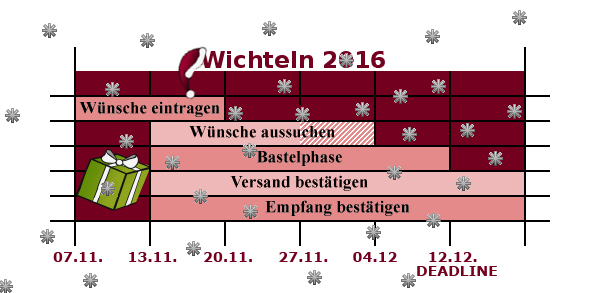
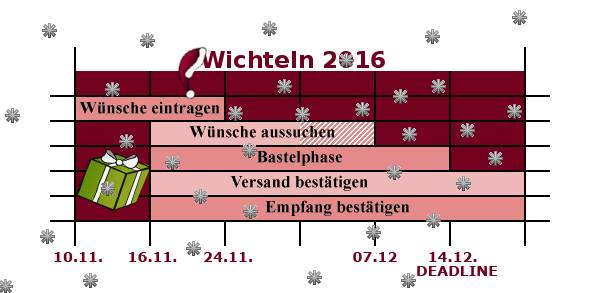
fixes etc

diff --git a/was-ist-denn-hier-los.php b/was-ist-denn-hier-los.php
@@ -57,23 +57,23 @@ switch($Grund) {
   break;
 
   case 'zeit_eintragen':
-    echo "<p ><b>Hallo ".$user->data['username']."!</b><br><br>Dieser Dienst steht nur vom 07.11.2016 bis zum 20.11.2016 zur Verf&uuml;gung. Und da heute der ".date("d.m.Y")." ist, ist dieser Dienst leider nicht verf&uuml;gbar.</p>";
+    echo "<p ><b>Hallo ".$user->data['username']."!</b><br><br>Dieser Dienst steht nur vom 10.11.2016 bis zum 23.11.2016 zur Verf&uuml;gung. Und da heute der ".date("d.m.Y")." ist, ist dieser Dienst leider nicht verf&uuml;gbar.</p>";
   break;
 
   case 'zeit_anfragen':
-    echo "<p><b>Hallo ".$user->data['username']."!</b><br><br>Dieser Dienst steht leider nur vom ".$anfragen_start." bis zum ".$anfragen_ende." zur Verf&uuml;gung. Und da heute der ".date("d.m.Y")." ist, ist dieser Dienst leider nicht verf&uuml;gbar.</p>";
+    echo "<p><b>Hallo ".$user->data['username']."!</b><br><br>Dieser Dienst steht leider nur vom 16.11.2016  bis zum 7.12.2016 zur Verf&uuml;gung. Und da heute der ".date("d.m.Y")." ist, ist dieser Dienst leider nicht verf&uuml;gbar.</p>";
   break;
 
   case 'zeit_senden':
-    echo "<p><b>Hallo ".$user->data['username']."!</b><br><br>Dieser Dienst steht ab dem 13.11.2016 zur Verf&uuml;gung. Und da heute der ".date("d.m.Y")." ist, ist dieser Dienst leider nicht verf&uuml;gbar.</p>";
+    echo "<p><b>Hallo ".$user->data['username']."!</b><br><br>Dieser Dienst steht ab dem 16.11.2016 zur Verf&uuml;gung. Und da heute der ".date("d.m.Y")." ist, ist dieser Dienst leider nicht verf&uuml;gbar.</p>";
   break;
 
   case 'zeit_empfangen':
-    echo "<p><b>Hallo ".$user->data['username']."!</b><br><br>Dieser Dienst steht ab dem 13.11.2016 zur Verf&uuml;gung. Und da heute der ".date("d.m.Y")." ist, ist dieser Dienst leider nicht verf&uuml;gbar.</p>";
+    echo "<p><b>Hallo ".$user->data['username']."!</b><br><br>Dieser Dienst steht ab dem 16.11.2016 zur Verf&uuml;gung. Und da heute der ".date("d.m.Y")." ist, ist dieser Dienst leider nicht verf&uuml;gbar.</p>";
   break;
 
   case 'zeit_buergen':
-    echo "<p ><b>Hallo ".$user->data['username']."!</b><br><br>Dieser Dienst steht nur vom 13.11.2016 bis zum 27.11.2016 zur Verf&uuml;gung. Und da heute der ".date("d.m.Y")." ist, ist dieser Dienst leider nicht verf&uuml;gbar.</p>";
+    echo "<p ><b>Hallo ".$user->data['username']."!</b><br><br>Dieser Dienst steht nur vom 16.11.2016 bis zum 27.11.2016 zur Verf&uuml;gung. Und da heute der ".date("d.m.Y")." ist, ist dieser Dienst leider nicht verf&uuml;gbar.</p>";
   break;
   case 'geschenksperre':
     echo "<p><b>Hallo ".$user->data['username']."!</b><br><br>Du hast bereits ein Geschenk ausgew&auml;hlt. Bevor du ein weiteres aussuchen kannst, musst du den Versand des anderen best&auml;tigt haben.</p><br>";

diff --git a/und-so-gehts.php b/und-so-gehts.php
@@ -35,8 +35,8 @@ Wenn ihr dann ein Geschenk verschickt oder erhalten habt, dann best&auml;tigt di
 
 <a name="zeitplan"><h2>Zeitplan</h2></a>
 <div align="center"><img src="zeitplan2015.jpg" border="0" alt="Zeitplan"></div><br>
-Beginn des Wichteln ist am Montag, den 07.11.2016. Ab diesem Tag k&ouml;nnt ihr eure W&uuml;nsche im Skript eintragen. Es werden allerdings noch keine W&uuml;nsche vergeben, wir sammeln erst einmal. Wunschanfragen k&ouml;nnt ihr ab Sonntag, den 13.11.2016 stellen. Ab diesem Zeitpunkt werden W&uuml;nsche vergeben, ihr k&ouml;nnt die B&uuml;rge-Funktion nutzen und die Best&auml;tigungen f&uuml;r Versand und Empfang sind aktiv. Jetzt kann die Bastelphase starten! Ihr k&ouml;nnt auch eure W&uuml;nsche noch eine Woche lang eintragen, bis zum 20.11.2016. Dann ist Annahmeschlu&szlig;. Einen Wunsch heraussuchen k&ouml;nnt ihr noch bis zum 27.11.2016 (je nach Auslastung auch l&auml;nger). Dann solltet ihr langsam in die Puschen kommen, nach insgesamt 4 Wochen Bastelzeit ist Deadline zum Verschicken am Montag, den <b>12.12.2016</b>. Das ist defintiv! Danach k&ouml;nnt ihr nur noch den Versand und Empfang eines Paketes best&auml;tigen.<br>
-Alle angegebenen Tage sind inklusive, wenn da also steht: "W&uuml;nsche eintragen bis 20.11.2016", dann k&ouml;nnt ihr den letzten Wunsch am 20.11.2016 um 23:59 Uhr eintragen.<br>
+Beginn des Wichteln ist am Mittwoch, den 09.11.2016. Ab diesem Tag k&ouml;nnt ihr eure W&uuml;nsche im Skript eintragen. Es werden allerdings noch keine W&uuml;nsche vergeben, wir sammeln erst einmal. Wunschanfragen k&ouml;nnt ihr ab Mittwoch, den 16.11.2016 stellen. Ab diesem Zeitpunkt werden W&uuml;nsche vergeben, ihr k&ouml;nnt die B&uuml;rge-Funktion nutzen und die Best&auml;tigungen f&uuml;r Versand und Empfang sind aktiv. Jetzt kann die Bastelphase starten! Ihr k&ouml;nnt auch eure W&uuml;nsche noch eine Woche lang eintragen, bis zum 24.11.2016. Dann ist Annahmeschlu&szlig;. Einen Wunsch heraussuchen k&ouml;nnt ihr noch bis zum 7.12.2016 . Dann solltet ihr langsam in die Puschen kommen, nach insgesamt 4 Wochen Bastelzeit ist Deadline zum Verschicken am Montag, den <b>14.12.2016</b>. Das ist defintiv! Danach k&ouml;nnt ihr nur noch den Versand und Empfang eines Paketes best&auml;tigen.<br>
+Alle angegebenen Tage sind inklusive, wenn da also steht: "W&uuml;nsche eintragen bis 23.11.2016", dann k&ouml;nnt ihr den letzten Wunsch am 23.11.2016 um 23:59 Uhr eintragen.<br>
 <br>
 
 <div align="center"><img src="./img/nosternmini.gif" width="45" height="45" border="0" alt="*"></div>

diff --git a/lanq.php b/lanq.php
@@ -10,7 +10,7 @@ $eintragen_info = "<p>
 
 $eintragen_check = "<p>Bitte überprüfe deine Angaben nochmal genau bevor sie eingetragen werden. Du kannst sie später nicht mehr ändern.</p>";
 
-$eintragen_mail = "Hallo _USERNAME_! \n\nDeine Wuensche wurden in unsere Wunschdatenbank eingetragen. Ab dem 13.11.2016 kannst Du Dir die Wünsche der anderen anzeigen lassen und mit dem Wichteln loslegen. \n\nViel Spass wünscht dein Weihnachtswichtel";
+$eintragen_mail = "Hallo _USERNAME_! \n\nDeine Wuensche wurden in unsere Wunschdatenbank eingetragen. Ab dem 16.11.2016 kannst Du Dir die Wünsche der anderen anzeigen lassen und mit dem Wichteln loslegen. \n\nViel Spass wünscht dein Weihnachtswichtel";
 
 $eintragen_ende = "<p>Deine Daten wurden eingetragen. Vielen Dank für deine Teilnahme und viel Spaß beim Wichteln!</p>";
 
@@ -41,7 +41,7 @@ $anfragen_ende = "<p>Der Wunsch wurde für dich reserviert. Hier erhältst du al
 
 $anfragen_geschenk_weg = "<p>So wie es aussieht, wurde der Wunsch zwischenzeitlich anders vergeben. Bitte überprüfe deinen E-Mail-Eingang oder suche dir einen anderen Wunsch aus.</p>";
 
-$anfragen_mail = "Hallo _USERNAME_! \n\nDu hast dich verpflichtet, folgenden Wunsch zu erfuellen. Hier erhaeltst du noch mal alle Daten, die du benoetigst. Denk daran, dass du das Geschenk spaetestens am 12.12.2016 verschickt haben musst. \n_WUNSCHINFO_ \n\nViel Spass beim Basteln wuenscht Dein Weihnachtswichtel \n PS: Wenn in dieser Email statt den Informationen zu deinem Wunsch nur leere Felder stehen, dann ist etwas schief gelaufen. Der Wunsch ist dann nicht fuer dich reserviert! Bitte waehle ihn erneut aus und/oder wende dich an den Weihnachtswichtel.";
+$anfragen_mail = "Hallo _USERNAME_! \n\nDu hast dich verpflichtet, folgenden Wunsch zu erfuellen. Hier erhaeltst du noch mal alle Daten, die du benoetigst. Denk daran, dass du das Geschenk spaetestens am 14.12.2016 verschickt haben musst. \n_WUNSCHINFO_ \n\nViel Spass beim Basteln wuenscht Dein Weihnachtswichtel \n PS: Wenn in dieser Email statt den Informationen zu deinem Wunsch nur leere Felder stehen, dann ist etwas schief gelaufen. Der Wunsch ist dann nicht fuer dich reserviert! Bitte waehle ihn erneut aus und/oder wende dich an den Weihnachtswichtel.";
 
 $bekommen_mail = "Hallo _USERNAME_! \n\n_PARTNER_ hat gerade bestaetigt, dass dein Geschenk angekommen ist. Vielen Dank fuer deine Teilnahme am Wichteln! \n\nViele Gruesse vom Weihnachtswichtel";
 

diff --git a/wunsch-bearbeiten.php b/wunsch-bearbeiten.php
@@ -1,10 +1,17 @@
 <?php
 #Beginne Session
 session_start();
-
 $post=$_POST;
+date_default_timezone_set('Europe/Berlin');
+
+$today=date(YmdHi); //$today="201611081200";
+
+//$today="201511081200";
+
+
 include("cfg.php");
-// Ben�tigte Dateien und Variablen von phpBB3
+require_once("static.php");
+// Benoetigte Dateien und Variablen von phpBB3
 define('IN_PHPBB', true);
 $phpbb_root_path = (defined('PHPBB_ROOT_PATH')) ? PHPBB_ROOT_PATH : '../forum/';
 $phpEx = substr(strrchr(__FILE__, '.'), 1);
@@ -15,44 +22,25 @@ $user->session_begin();  // Session auslesen
 $auth->acl($user->data); // Benutzer-Informationen laden
 $user->setup();
 
+
 #Daten aus Datenbank abrufen
 $user_id = $user->data['user_id'];
 $user_posts = $user->data['user_posts'];
 
-#Pr�fe auf Blacklist
-mysql_connect("localhost",$dbuser,$dbpasswd);
-mysql_select_db($dbname);
-$query = mysql_query("SELECT blacklist_id FROM wi_blacklist WHERE user_id = '$user_id'");
-while ($erg =@ mysql_fetch_array($query)) { $blacklist = $erg["blacklist_id"]; }
-mysql_close();
+# sortiere nicht admins aus
+if($user_id != $admin && $user_id != $orgawichtel){
+   header("Location: was-ist-denn-hier-los.php?Grund=admin");
+}
 
-
-$td=getdate();
-if ($td["mday"]<10)
-	$td["mday"]="0".$td["mday"];
-if ($td["mon"]<10)
-	$td["mon"]="0".$td["mon"];
-if ($td["hours"]<10)
-	$td["hours"]="0".$td["hours"];
-if ($td["minutes"]<10)
-	$td["minutes"]="0".$td["minutes"];
-
-$today=$td["year"].$td["mon"].$td["mday"].$td["hours"].$td["minutes"];
-//$today="201511270000";
-//$user_posts=100;
-#�berpr�fe Rechte
-include('static.php');
-if ( !$user->data['is_registered'] ) { header("Location: was-ist-denn-hier-los.php?Grund=nicht_eingeloggt"); }
-elseif ( $user_posts < $user_min_posts ) { header("Location: was-ist-denn-hier-los.php?Grund=zu_wenig_posts"); }
-//elseif ( (($today < $eintragen_start)) || (($today > $eintragen_ende)) ) { header("Location: was-ist-denn-hier-los.php?Grund=zeit_eintragen"); }
-elseif ( ($blacklist != NULL) ) { header("Location: was-ist-denn-hier-los.php?Grund=blacklist"); }
+$un=$user->data['username'];
+if ($un=="Anonymous") $user_id=0;
 
 
 ?>
 
 <html>
 <head>
-<meta name="author" content="systemhexe">
+<meta name="author" content="kaylee">
 <meta name="debug" content="toxic_garden">
 <meta name="organization" content="n&auml;hkromanten">
 <meta charset="UTF-8">

diff --git a/ich-wuensche-mir.php b/ich-wuensche-mir.php
@@ -368,7 +368,7 @@ function eintrag()
         <p>
           Diese werden zu allen deinen Wünschen angezeigt.<br>
           Hier kannst du erwähnen, was deine generellen Stilvorlieben sind, alles, was deinem Wichtel helfen könnte, deine Wünsche besser einzuschätzen. Außerdem deine Maße, Kleidergröße, Schuhgröße, Kopfumfang (sofern nicht bereits bei den Wünschen angegeben), Allergien gegen Zutaten/Materialen/Haustiere, besondere Hinweise zu Adressierung/Versand, etc.<br>
-          Schreib bitte nicht deinen Nick oder Namen in dieses Feld, da er sonst dem potentiellen Wichtel zu frühh verraten wird.<br>
+          Schreib bitte nicht deinen Nick oder Namen in dieses Feld, da er sonst dem potentiellen Wichtel zu früh verraten wird.<br>
           Wir können im Nachhinein keine Infos weiterleiten, also schreib hier bitte alles rein, was wichtig ist.
         </p>
         <ul class="flex-outer">
@@ -573,7 +573,7 @@ function senden() {
     include('lanq.php');
     echo "<p><b>Hallo ".$user->data['username']."!</b></p>";
     echo $eintragen_ende;
-  }^
+  }
 
 } //function senden()
 

diff --git a/index.php b/index.php
@@ -20,9 +20,6 @@
         Um auf dem neusten Stand zu sein, schaut bitte auch hinein, wenn ihr bereits mitgemacht habt, danke!<br>
       </p>
       <p>
-        Wenn die Links unten nicht funktionieren, liegt das daran, dass diese Funktionen nur zu bestimmten Zeiten aktiv sind. Den Zeitplan findet ihr in den Regeln.
-      </p>
-      <p>
         Wenn ihr noch Fragen habt, stellt diese im Forum (<a target="_blank" href="https://www.naehkromanten.net/forum/viewtopic.php?f=21&t=69757">in diesem Thread</a>) oder wendet euch direkt an den <a target="_blank" href="https://www.naehkromanten.net/forum/memberlist.php?mode=viewprofile&u=10714">Weihnachtswichtel</a>.<br>
       </p>
 

diff --git a/wunsch.php b/wunsch.php
@@ -66,9 +66,16 @@ if (!$db) {
     } //while ($erg =@ mysql_fetch_array($query))
 
     $query = "SELECT notizen FROM wi_wichtel WHERE wichtel_id = '$wichtel_id'";
+    $erg = mysql_query($query);
+    if (!$erg) {
+        $message  = 'Ungültige Abfrage: ' . mysql_error() . "\n";
+        $message .= 'Gesamte Abfrage: ' . $query;
+        die($message);
+    }
 
-    while ($erg =@ mysql_fetch_array($query)) {
+    while ($erg =@ mysql_fetch_array($erg)) {
       $notizen = $erg["notizen"];
+
     } //while ($erg =@ mysql_fetch_array($query))
     $beschreibung = str_replace("\r\n","<br>",$beschreibung);
     $notizen = str_replace("\r\n","<br>",$notizen);

diff --git a/static.php b/static.php
@@ -3,19 +3,19 @@
 $user_min_posts=100;
 $buerge_min_posts=500;
 $orgawichtel = 10714;
-$admin = 109;
+$admin = 2332;
 
 /* test */
-$eintragen_start=201610080000;
-$eintragen_ende= 202011220000;
+$eintragen_start=201611090000;
+$eintragen_ende= 201611240000;
 
-$anfragen_start= 201610150000;
-$anfragen_ende=  202011290000;
+$anfragen_start= 201611150000;
+$anfragen_ende=  201612080000;
 
-$senden_start=   201610150000;
-$senden_ende=    201610100000;
+$senden_start=   201611150000;
+$senden_ende=    201612150000;
 
-$empfangen_start=201610150000;
+$empfangen_start=201611150000;
 $empfangen_ende= 202012300000;
 
 $buergen_start=  201610080000;

diff --git a/wunsch_aussuchen.php b/wunsch_aussuchen.php
@@ -150,7 +150,7 @@ EINTRAG;
           );
           $anfragen_mail = str_replace ("_USERNAME_", $user->data['username'], $anfragen_mail);
           $anfragen_mail = str_replace ("_WUNSCHINFO_", $wunschinfo, $anfragen_mail);
-          mail($mailto,$subject,$anfragen_mail, $headerFields);
+          mail($mailto,$subject,$anfragen_mail,implode("\r\n", $headerFields));
           echo "<p>Diese Informationen wurden gerade auch per Mail an die Adresse <i>".$usermail."</i> verschickt.</p>";
         } //( (!$status) && ($wichtel_id != $user_wichtel_id) )
         else {

diff --git a/admin.php b/admin.php
@@ -127,8 +127,8 @@ if (!$db) {
             $partner_id =$wichtel_data["partner_id"];
             echo <<<EINTRAG
             <tr>
-              <td><a href="./wichtel?wichtel_id=$wichtel_id">$wichtel_name</a></td>
-              <td><a href="./wichtel?wichtel_id=$partner_id">$partner_name</a></td>
+              <td><a href="./wichtel.php?wichtel_id=$wichtel_id">$wichtel_name</a></td>
+              <td><a href="./wichtel.php?wichtel_id=$partner_id">$partner_name</a></td>
               <td>$status</td>
             </tr>
 EINTRAG;
